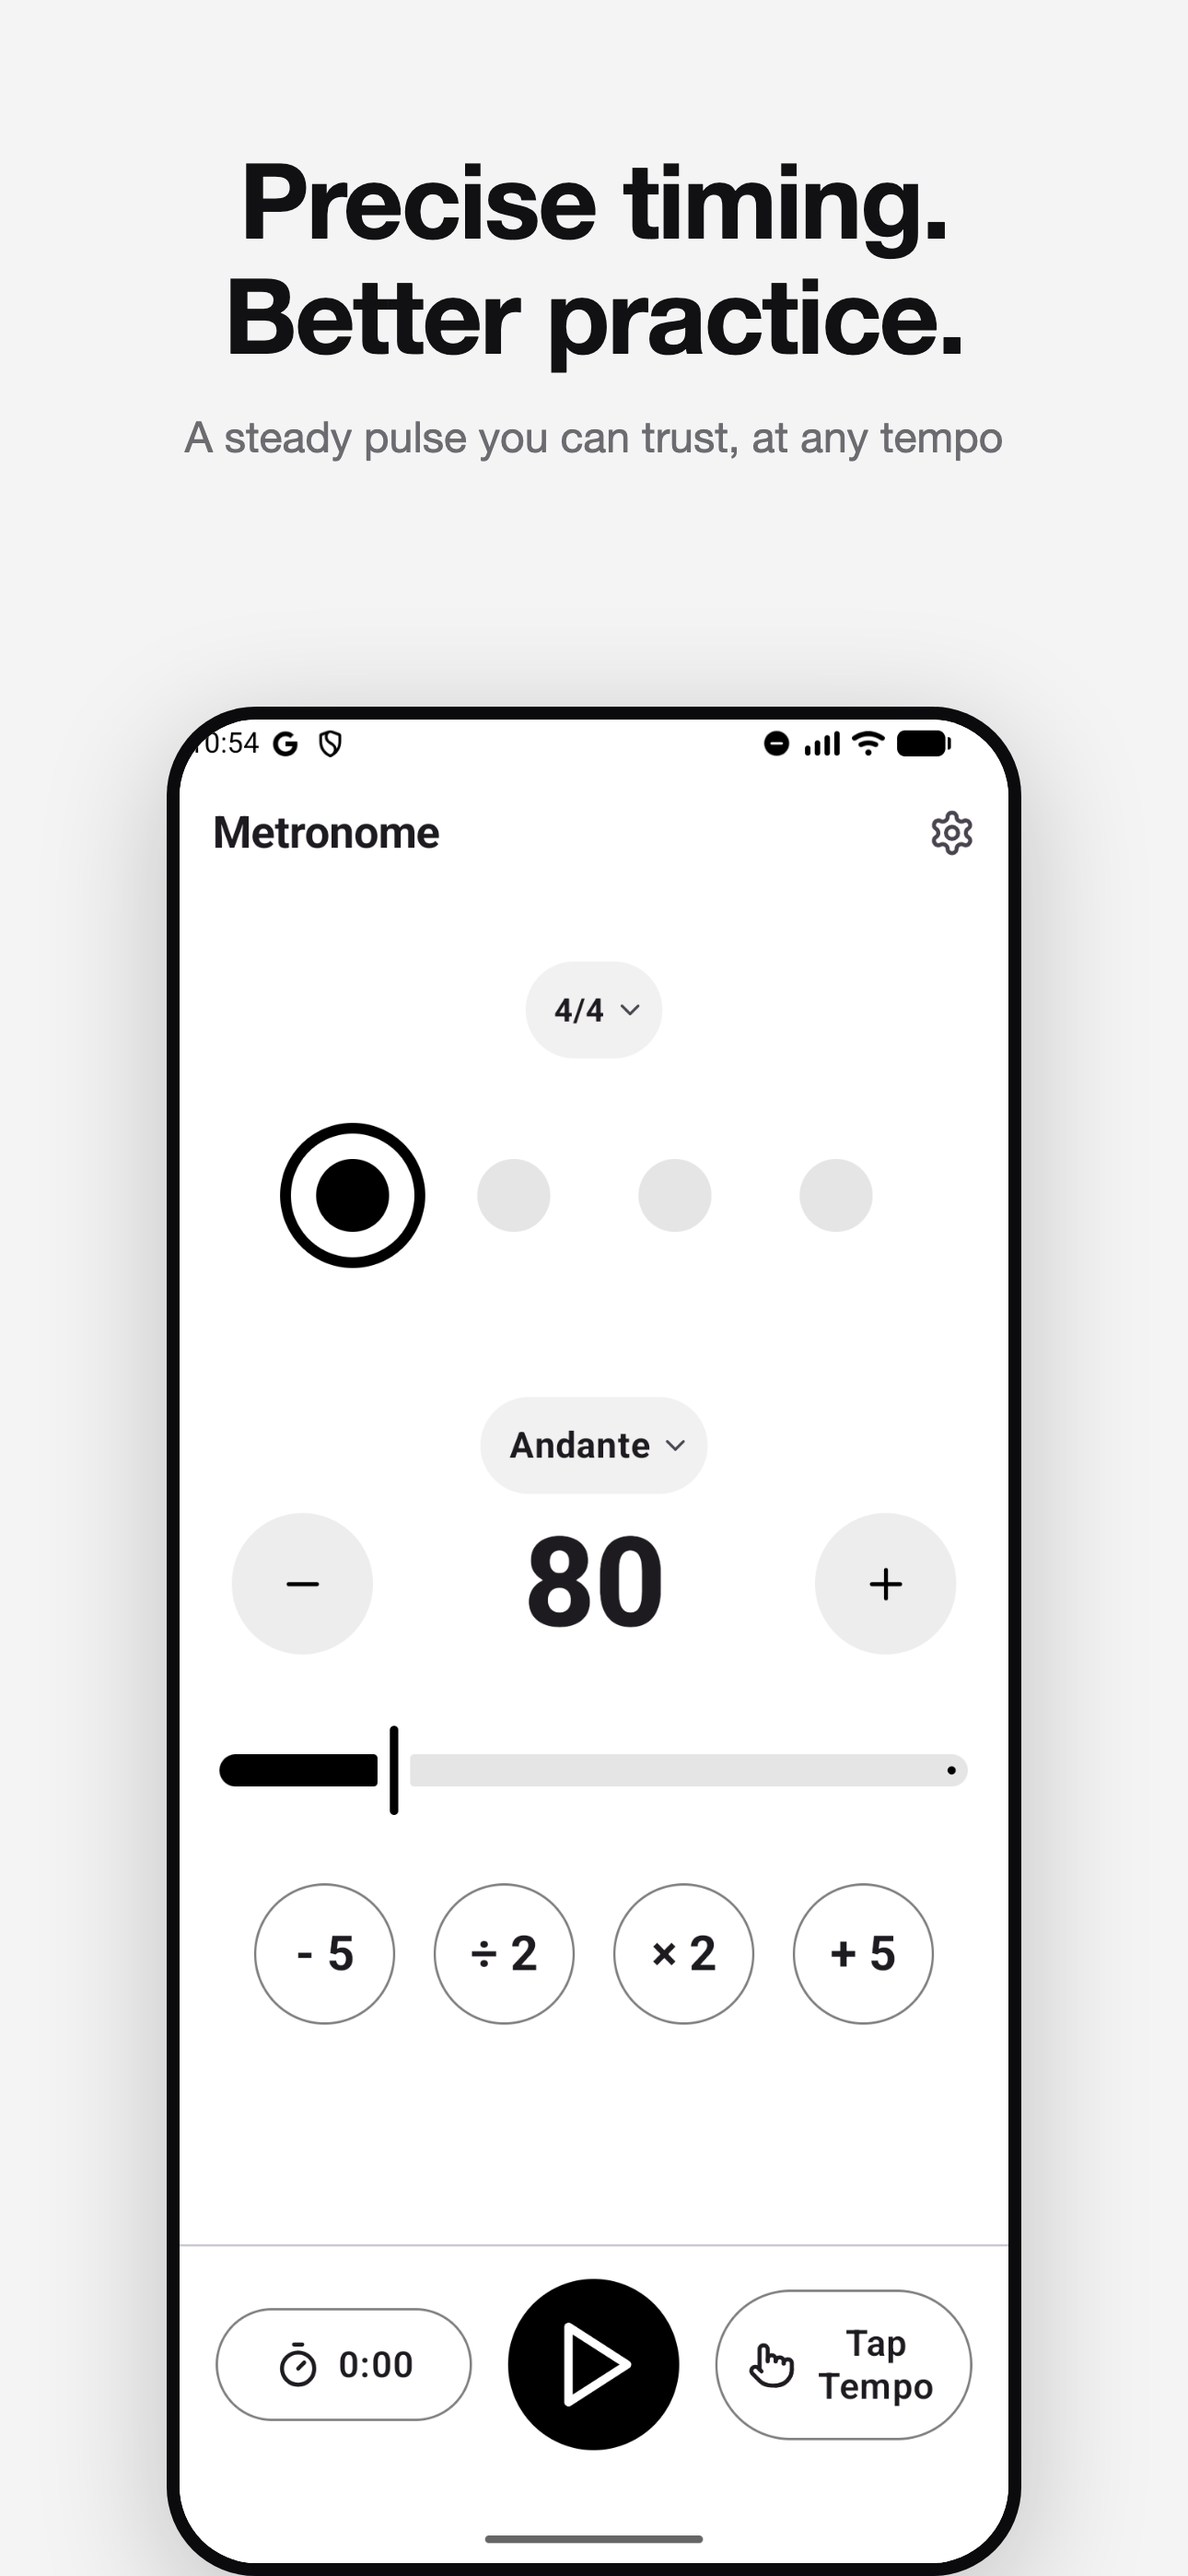
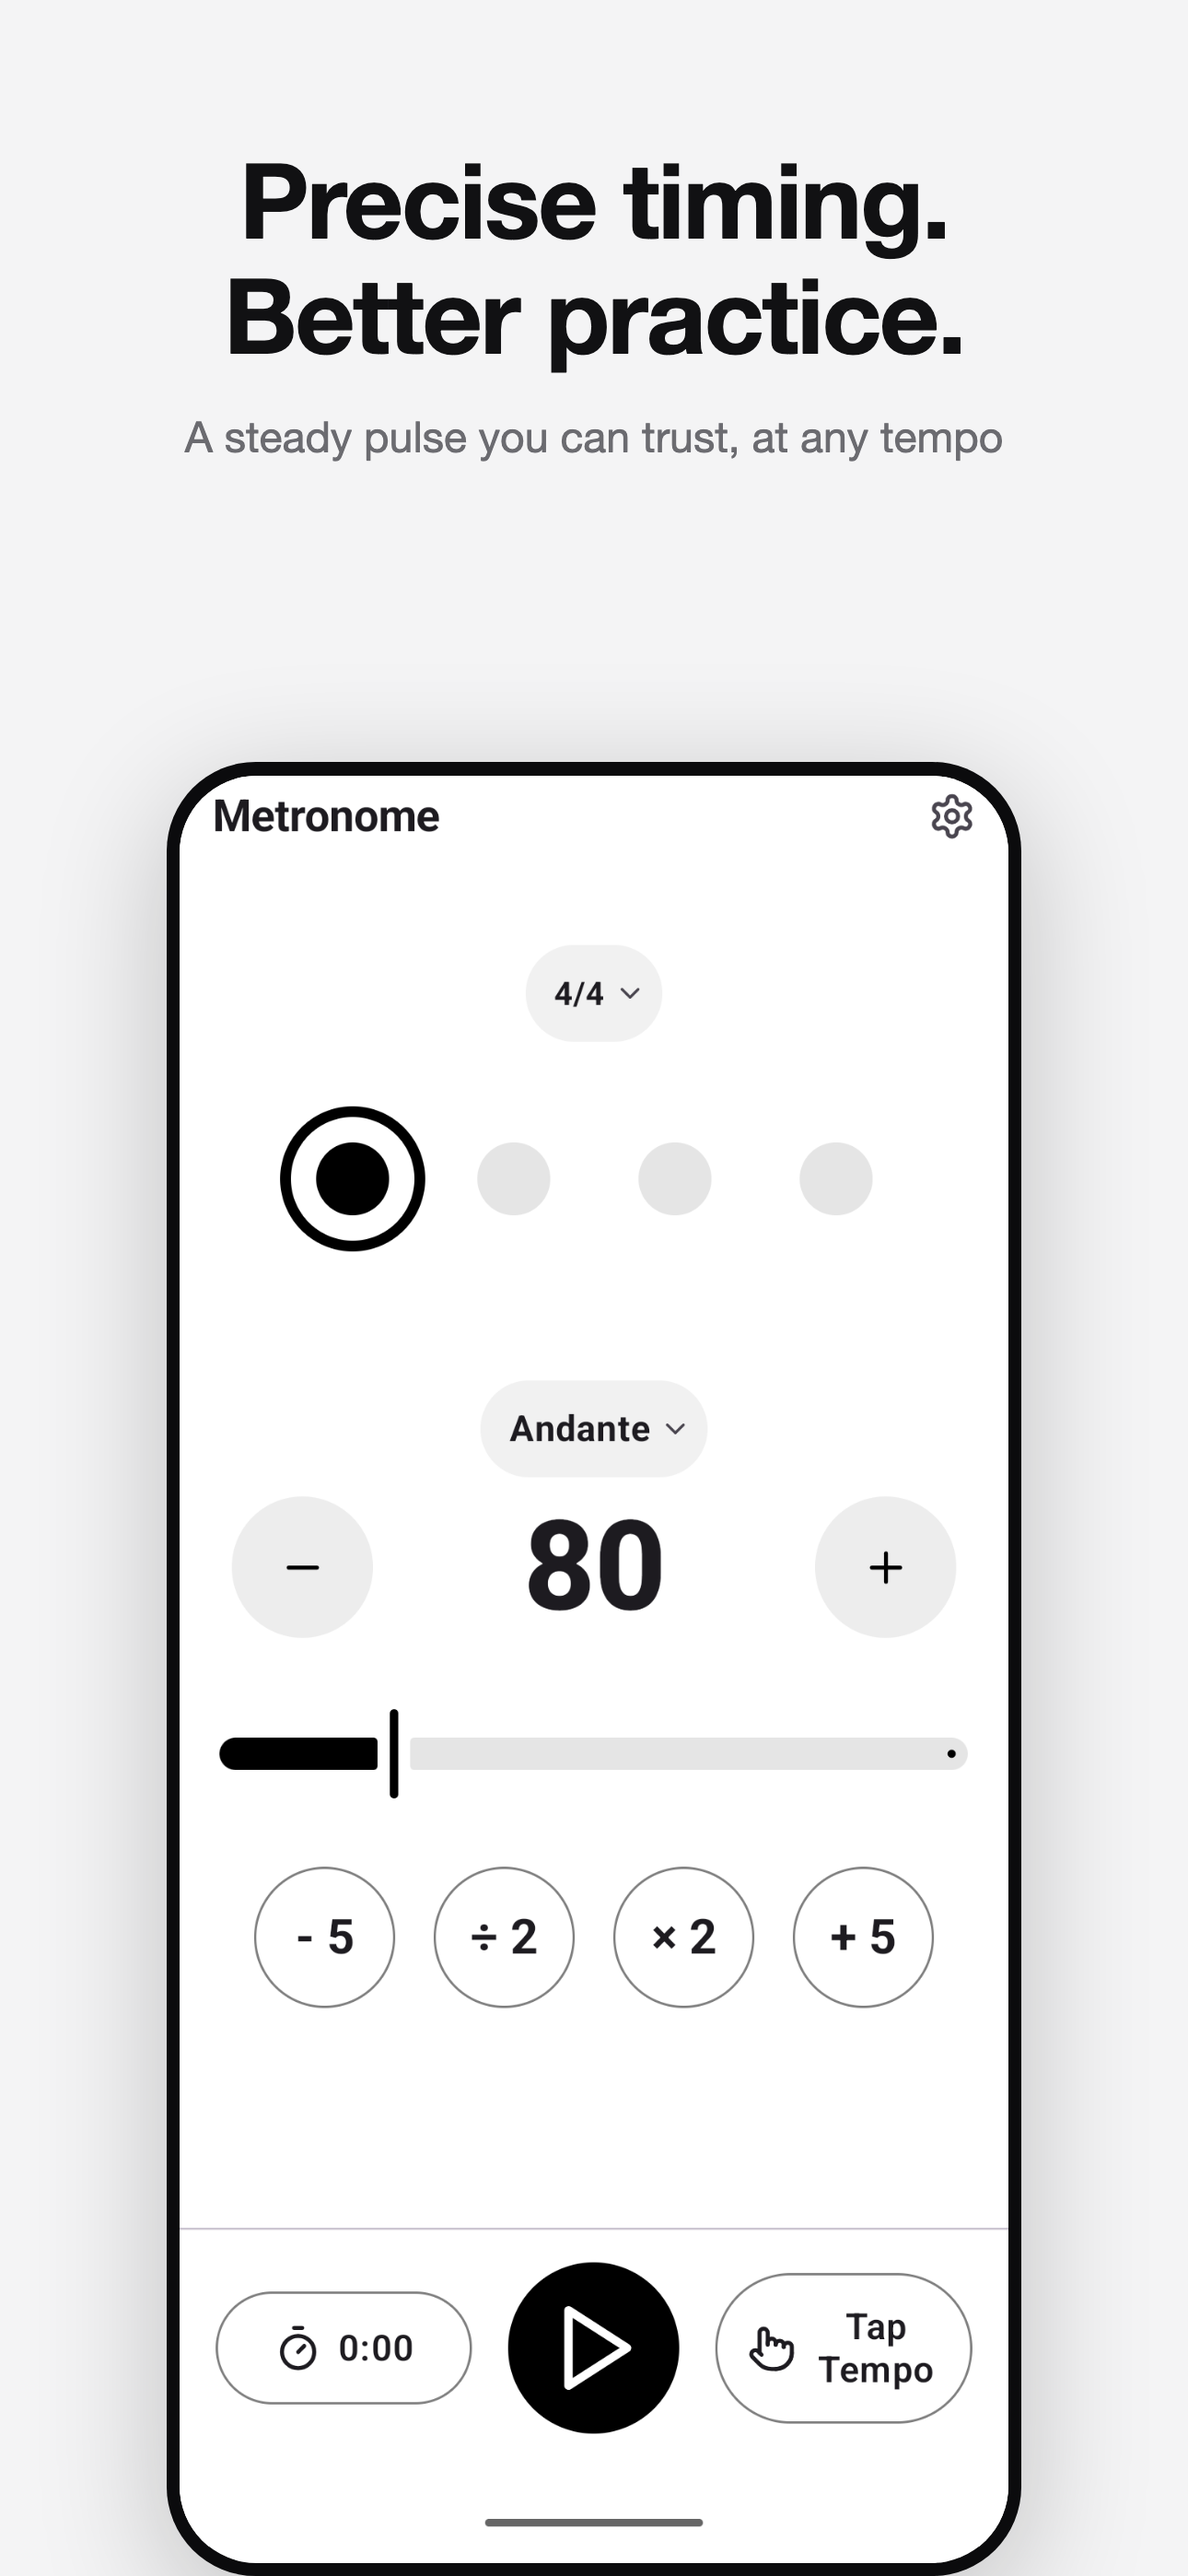
chore(store): capture real 1.3.0 screenshots and build the eight frames
Adds the captured source screenshots and the generated App Store 6.9in
and Play phone frames, plus a resilient adb capture script that resolves
taps from the accessibility tree rather than fixed coordinates.

Claude-Session: https://claude.ai/code/session_01SVidaaKXA3tkdeXYnArktn

diff --git a/tools/store-screenshots/template.html b/tools/store-screenshots/template.html
@@ -9,6 +9,8 @@
     --bg: __BACKGROUND__;
     --title: __TITLE_COLOR__;
     --subtitle: __SUBTITLE_COLOR__;
+    --crop-top: __CROP_TOP__;
+    --crop-bottom: __CROP_BOTTOM__;
   }
   * { margin: 0; padding: 0; box-sizing: border-box; }
   html, body { width: var(--w); height: var(--h); }
@@ -65,6 +67,7 @@
     padding-top: calc(var(--h) * 0.035);
   }
   .phone {
+    --shot-h: calc(var(--w) * 0.72 * __SHOT_RATIO__);
     width: calc(var(--w) * 0.72);
     border-radius: calc(var(--w) * 0.075);
     background: #0b0b0d;
@@ -77,8 +80,20 @@
     overflow: hidden;
     background: #fff;
     display: block;
+    position: relative;
   }
-  .phone img { width: 100%; display: block; }
+  /* crop-top / crop-bottom trim platform chrome (status bar, gesture bar) so the
+     same source screenshot works for both stores */
+  .phone .glass .clip {
+    overflow: hidden;
+    display: block;
+    height: calc(var(--shot-h) * (1 - var(--crop-top) - var(--crop-bottom)));
+  }
+  .phone img {
+    width: 100%;
+    display: block;
+    margin-top: calc(var(--shot-h) * var(--crop-top) * -1);
+  }
 </style>
 </head>
 <body>
@@ -88,7 +103,7 @@
     __BADGES__
   </div>
   <div class="stage">
-    <div class="phone"><div class="glass"><img src="__SCREENSHOT__"></div></div>
+    <div class="phone"><div class="glass"><span class="clip"><img src="__SCREENSHOT__"></span></div></div>
   </div>
 </body>
 </html>

diff --git a/docs/store/legal-pages-copy.md b/docs/store/legal-pages-copy.md
@@ -1,0 +1,92 @@
+# Privacy and support page copy
+
+For `merkost.dev/metronome/privacy` and `merkost.dev/metronome/support`. Both
+URLs are required by the stores, so they must exist before submitting.
+
+Once these are live on Framer, retire `docs/privacy.html` and
+`docs/support.html`, and update the URLs in App Store Connect and Play Console.
+
+---
+
+# Privacy Policy
+
+_Last updated: 3 September 2026_
+
+## Overview
+
+Metronome is designed with your privacy in mind. Its practice features work
+offline, and it does not require an account or personal information to use. The
+app does send anonymous diagnostic data, described below.
+
+## Data we collect
+
+- **Firebase Crashlytics** (iPhone, iPad and Android) — anonymous crash reports
+  to help us fix bugs, including device type, OS version and stack traces. No
+  personal data is included.
+- **Firebase Analytics** (Android only) — anonymous usage data such as session
+  duration and screen views.
+- **Firebase Performance Monitoring** (Android only) — anonymous performance
+  metrics.
+
+## Data stored on your device
+
+Your settings, practice presets, practice sets and practice time are stored
+locally on your device. This data never leaves your device.
+
+## No personal data
+
+We do not collect, store or share personally identifiable information. There is
+no registration or login.
+
+## No ads
+
+The app contains no advertisements and no ad tracking.
+
+## Third-party services
+
+Firebase services are provided by Google. Their privacy policy is at
+firebase.google.com/support/privacy.
+
+## Children's privacy
+
+The app does not knowingly collect any data from children. The anonymous crash
+and analytics data collected by Firebase does not include personal information
+from any user.
+
+## Changes
+
+We may update this policy from time to time. Changes will be posted on this page
+with an updated date.
+
+## Contact
+
+merkostdev+metronome@gmail.com
+
+---
+
+# Support
+
+## Getting help
+
+Email **merkostdev+metronome@gmail.com**. Including your device model, OS
+version and the app version from Settings helps us reproduce the problem.
+
+## Common questions
+
+**The click sounds late or uneven.**
+Close other audio apps and try a different click sound in Settings. On Bluetooth
+headphones some latency is unavoidable — wired output or the device speaker is
+more accurate for critical practice.
+
+**Playback stops when I switch apps.**
+Enable background playback in Settings. On Android, allow the notification
+permission when prompted so the metronome can keep running.
+
+**My practice presets disappeared.**
+Presets are stored on the device and are not synced between devices or restored
+from a backup of another device. If they vanished on the same device, please
+email us with the app version.
+
+**How do I report a bug or suggest a feature?**
+Email the address above. Bug reports that include the steps to reproduce get
+fixed fastest.
